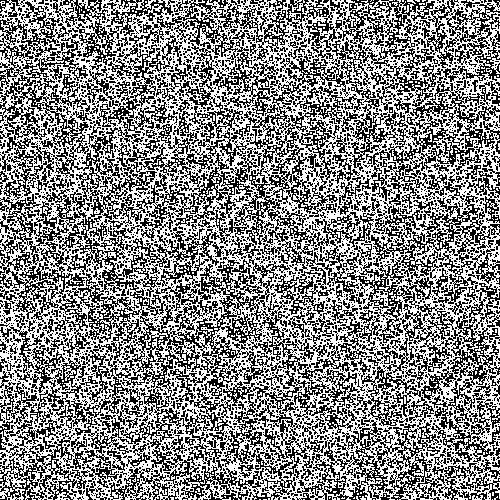
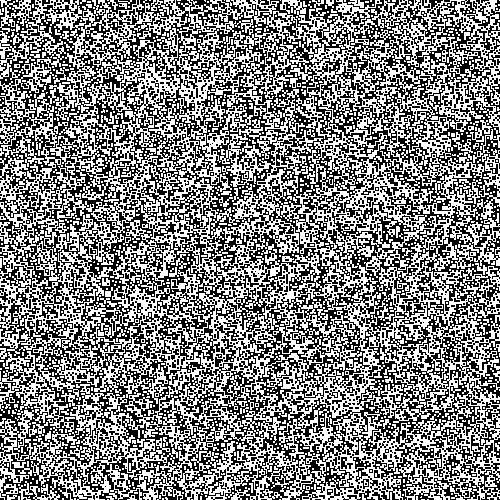
Still working on java tester

diff --git a/src/cellularAutomaton/Main.java b/src/cellularAutomaton/Main.java
@@ -4,14 +4,42 @@ public class Main {
 
 	public static void main(String[] args) {
 
-		int width = 500;
-		int height = 500;
-
+		
+		int width = Integer.parseInt(args[0]);
+		int height = Integer.parseInt(args[1]);
+		
+		
+		boolean useRuleString = false;
+		int ruleStringIndex = -1;
+		String ruleString = "";
+		
+		//find -c
+		for(int i=0;i<args.length;i++){
+			if(args[i].equals("-c")){
+				useRuleString = true;
+				ruleString = args[i+1];
+				break;
+			}
+		}
+		
+		if(!useRuleString){
+			ruleStringIndex = Integer.parseInt(args[2]);
+		}
+		
 		boolean stopFlickering = false;
 		Board currentState = new Board(width, height);
 		Rules rules = new Rules();
-		rules.setRules(Rules.ruleSets[1]);
-		currentState.fillRandomPercent(10);
+		
+		if(useRuleString){
+			rules.setRules(ruleString);
+		}else{
+			rules.setRules(Rules.ruleSets[ruleStringIndex]);
+		}
+		
+		
+		currentState.fillRandomPercent(1);
+		currentState.fillMiddleSquare(10);
+		
 		currentState.writeMapToImage("initial.png");
 		System.out.println(currentState.calculateEntropy());
 
@@ -24,6 +52,10 @@ public class Main {
 
 		while (currentFrame < 1000) {
 			long startTime = System.currentTimeMillis();
+			
+			if(currentFrame%100==0){
+				currentState.writeMapToImage("state"+currentFrame+".png");
+			}
 
 			if (stopFlickering) {
 				if (Math.abs(currentFrame % 2) == 0) {
@@ -92,7 +124,7 @@ public class Main {
 			long end = System.currentTimeMillis();
 			long diff = end - startTime;
 
-			//System.out.println(currentFrame + " " + diff1 + "/" + diff);
+			System.out.println(currentFrame + " " + diff1 + "/" + diff);
 		}
 
 		currentState.writeMapToImage("final.png");

diff --git a/src/cellularAutomaton/Board.java b/src/cellularAutomaton/Board.java
@@ -103,12 +103,24 @@ public class Board {
 		return true;
 	}
 	
-	public long calculateEntropy(){
-		long returnVal = 0;
+	public double calculateEntropy(){
+		double returnVal = 0;
 		for(int i=0;i<map.length;i++){
-			returnVal+=(map[i]) ? Math.log(1) : 0;
+			returnVal+=(map[i]) ? Math.log(255) : 0;
 		}
 		return returnVal;
+	}
+
+	public void fillMiddleSquare(int l) {
+		int middleX = width/2;
+		int middleY = height/2;
+		
+		for(int y=middleY-l/2;y<middleY+l/2;y++){
+			for(int x=middleX-l/2;x<middleX+l/2;x++){
+				this.map[(width * y) + (x)] = true;
+			}
+		}
+		
 	}
 
 }

diff --git a/evaluateEntropy.m b/evaluateEntropy.m
@@ -1,5 +1,7 @@
-I = imread('initial.png'); 
-J = entropy(I)
-
-I = imread('final.png'); 
-J = entropy(I)
+fnames = dir('*.png');
+numfids = length(fnames);
+for K = 1:numfids
+I = imread(fnames(K).name);
+J = entropy(I);
+fprintf('for file %s, entropy %f\n',fnames(K).name,J);
+end
